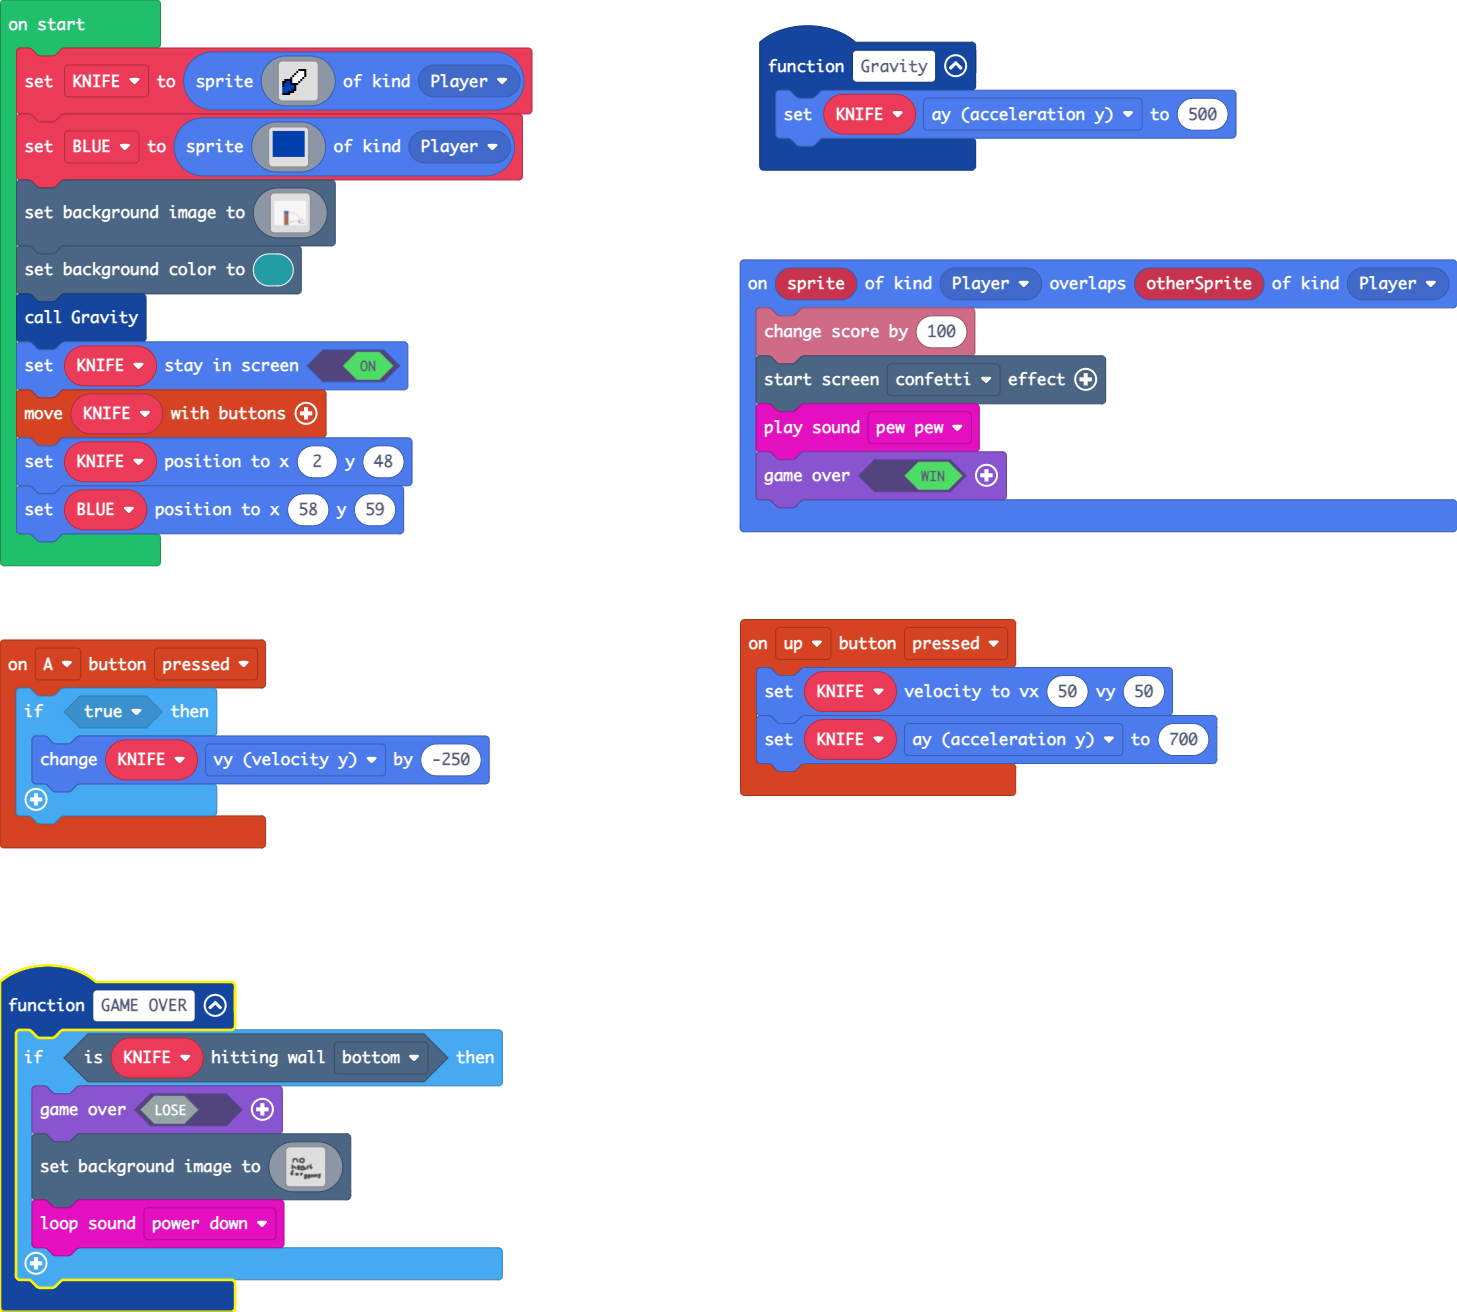
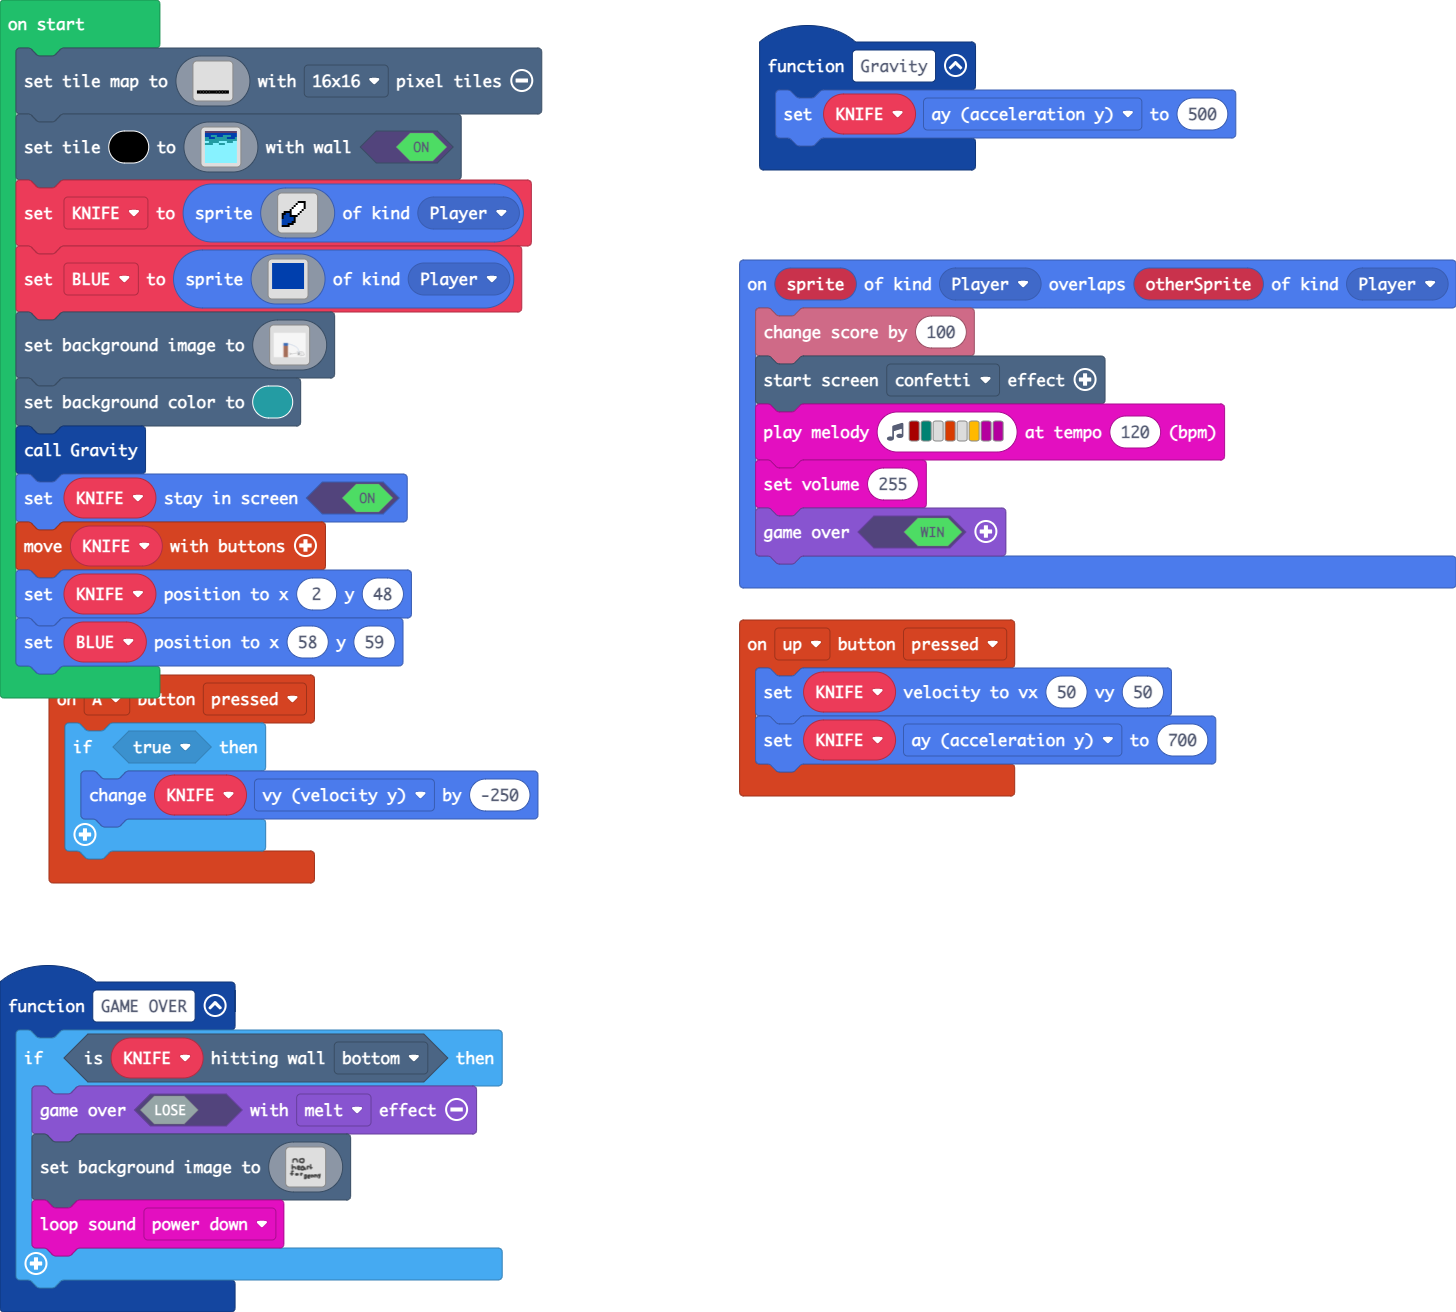
Update pxt.json, main.blocks, main.ts, tilemap.g.jres, tilemap.g.ts

diff --git a/main.ts b/main.ts
@@ -7,7 +7,7 @@ controller.up.onEvent(ControllerButtonEvent.Pressed, function () {
 })
 function GAME_OVER () {
     if (KNIFE.isHittingTile(CollisionDirection.Bottom)) {
-        game.over(false)
+        game.over(false, effects.melt)
         scene.setBackgroundImage(img`
             ................................................................................................................................................................
             ................................................................................................................................................................
@@ -144,10 +144,39 @@ controller.A.onEvent(ControllerButtonEvent.Pressed, function () {
 sprites.onOverlap(SpriteKind.Player, SpriteKind.Player, function (sprite, otherSprite) {
     info.changeScoreBy(100)
     effects.confetti.startScreenEffect()
-    music.pewPew.play()
+    music.playMelody("C5 F - B - A C C ", 120)
+    music.setVolume(255)
     game.over(true)
 })
 let KNIFE: Sprite = null
+scene.setTileMap(img`
+    . . . . . . . . . . 
+    . . . . . . . . . . 
+    . . . . . . . . . . 
+    . . . . . . . . . . 
+    . . . . . . . . . . 
+    . . . . . . . . . . 
+    . . . . . . . . . . 
+    f f f f f f f f f f 
+    `, TileScale.Sixteen)
+scene.setTile(15, img`
+    c c c c c c c c c c c c c c c c 
+    8 8 8 8 8 8 8 8 8 8 8 8 8 8 8 8 
+    8 8 8 6 6 6 8 8 8 6 6 6 6 8 8 8 
+    6 6 8 8 8 6 6 6 6 6 6 8 8 8 8 6 
+    6 6 6 6 6 6 6 6 6 6 6 6 6 6 6 6 
+    9 9 6 6 6 6 6 9 9 9 9 6 6 6 9 9 
+    6 6 6 6 9 9 9 6 6 6 9 9 9 9 9 9 
+    9 9 9 9 9 9 9 9 9 9 9 9 9 9 9 9 
+    9 9 9 9 9 9 9 9 9 9 9 9 9 9 9 9 
+    9 9 9 9 9 9 9 9 9 9 9 9 9 9 9 9 
+    9 9 9 9 9 9 9 9 9 9 9 9 9 9 9 9 
+    9 9 9 9 9 9 9 9 9 9 9 9 9 9 9 9 
+    9 9 9 9 9 9 9 9 9 9 9 9 9 9 9 9 
+    9 9 9 9 9 9 9 9 9 9 9 9 9 9 9 9 
+    9 9 9 9 9 9 9 9 9 9 9 9 9 9 9 9 
+    9 9 9 9 9 9 9 9 9 9 9 9 9 9 9 9 
+    `, true)
 KNIFE = sprites.create(img`
     . . . . . . . . . . . . . . . . 
     . . . . . . . . . . . . . . . . 

diff --git a/tilemap.g.ts b/tilemap.g.ts
@@ -1,0 +1,39 @@
+// Auto-generated code. Do not edit.
+namespace myTiles {
+    //% fixedInstance jres blockIdentity=images._tile
+    export const transparency16 = image.ofBuffer(hex``);
+
+    helpers._registerFactory("tilemap", function(name: string) {
+        switch(helpers.stringTrim(name)) {
+            case "level1":
+            case "level1":return tiles.createTilemap(hex`1000100000000000000000000000000000000000000000000000000000000000000000000000000000000000000000000000000000000000000000000000000000000000000000000000000000000000000000000000000000000000000000000000000000000000000000000000000000000000000000000000000000000000000000000000000000000000000000000000000000000000000000000000000000000000000000000000000000000000000000000000000000000000000000000000000000000000000000000000000000000000000000000000000000000000000000000000000000000000000000000000000000000000000000000000000000000000`, img`
+. . . . . . . . . . . . . . . . 
+. . . . . . . . . . . . . . . . 
+. . . . . . . . . . . . . . . . 
+. . . . . . . . . . . . . . . . 
+. . . . . . . . . . . . . . . . 
+. . . . . . . . . . . . . . . . 
+. . . . . . . . . . . . . . . . 
+. . . . . . . . . . . . . . . . 
+. . . . . . . . . . . . . . . . 
+. . . . . . . . . . . . . . . . 
+. . . . . . . . . . . . . . . . 
+. . . . . . . . . . . . . . . . 
+. . . . . . . . . . . . . . . . 
+. . . . . . . . . . . . . . . . 
+. . . . . . . . . . . . . . . . 
+. . . . . . . . . . . . . . . . 
+`, [myTiles.transparency16], TileScale.Sixteen);
+        }
+        return null;
+    })
+
+    helpers._registerFactory("tile", function(name: string) {
+        switch(helpers.stringTrim(name)) {
+            case "transparency16":return transparency16;
+        }
+        return null;
+    })
+
+}
+// Auto-generated code. Do not edit.
